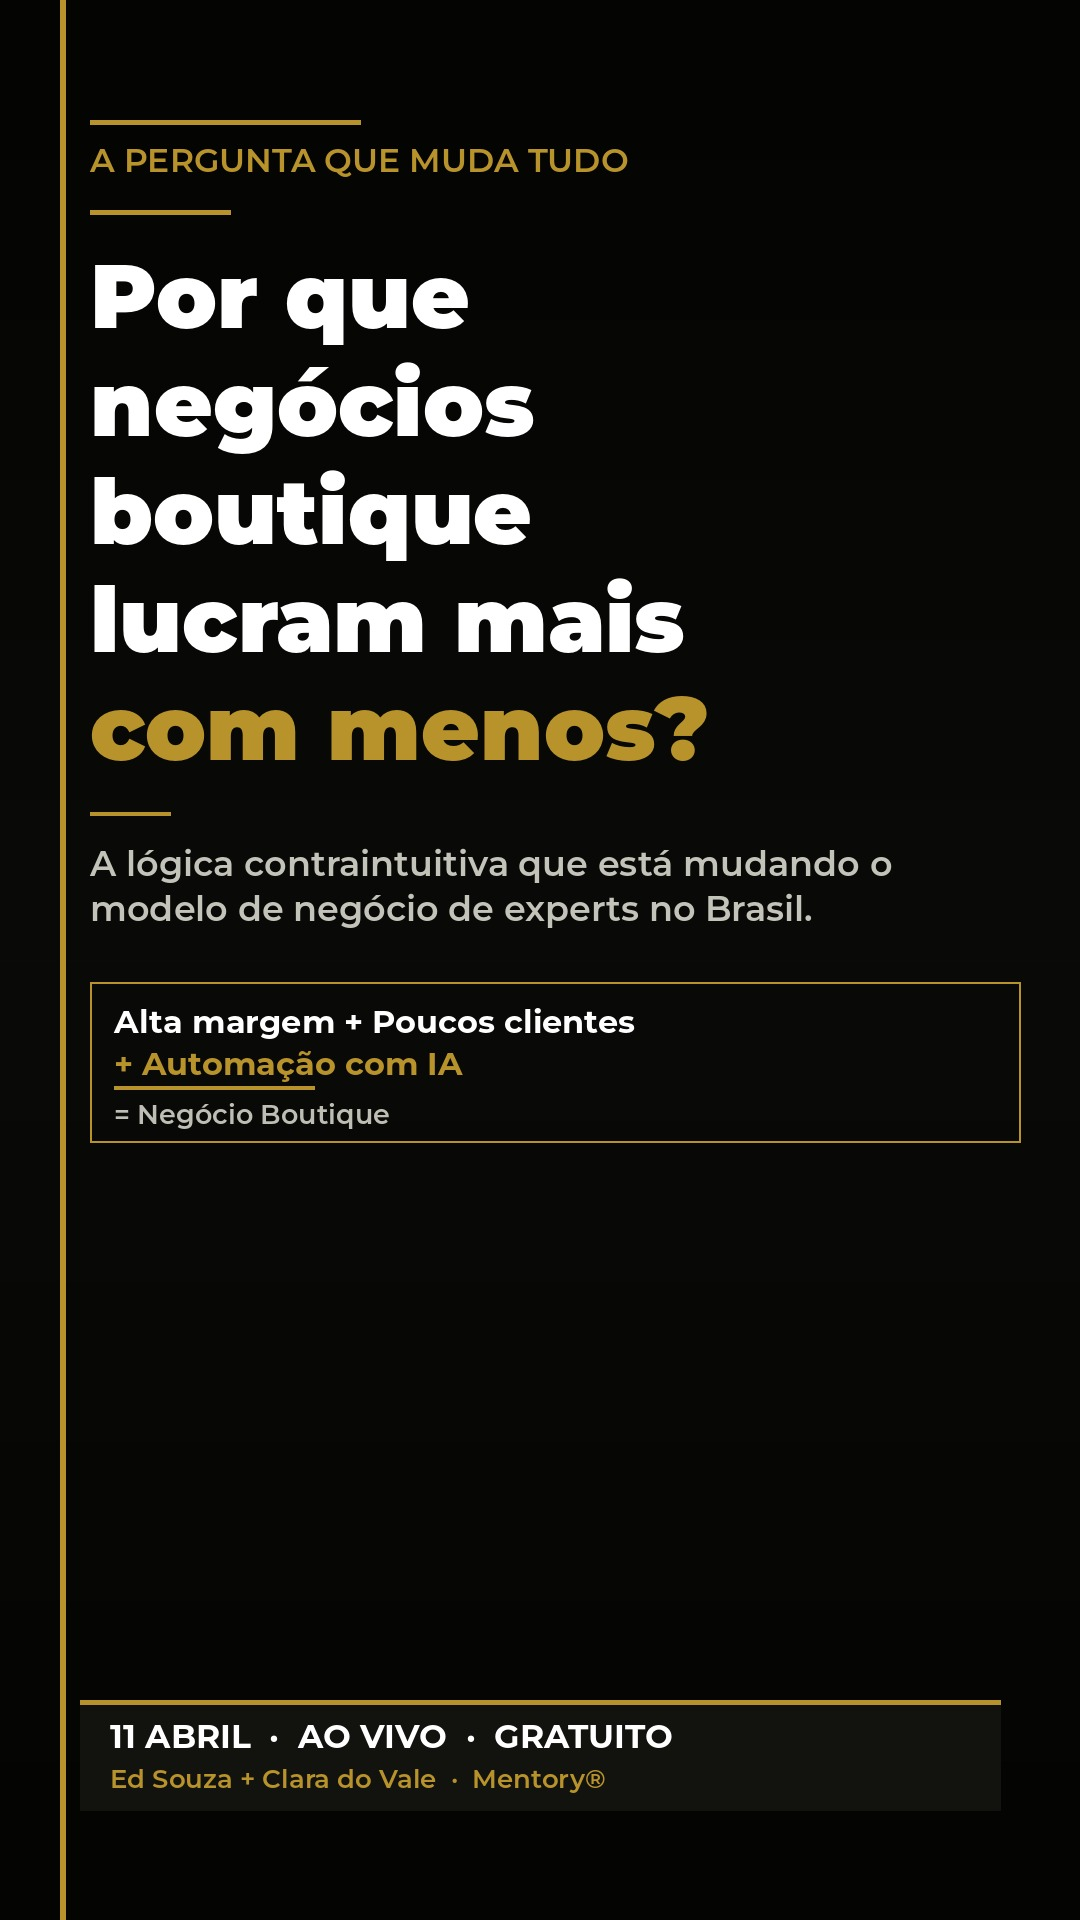
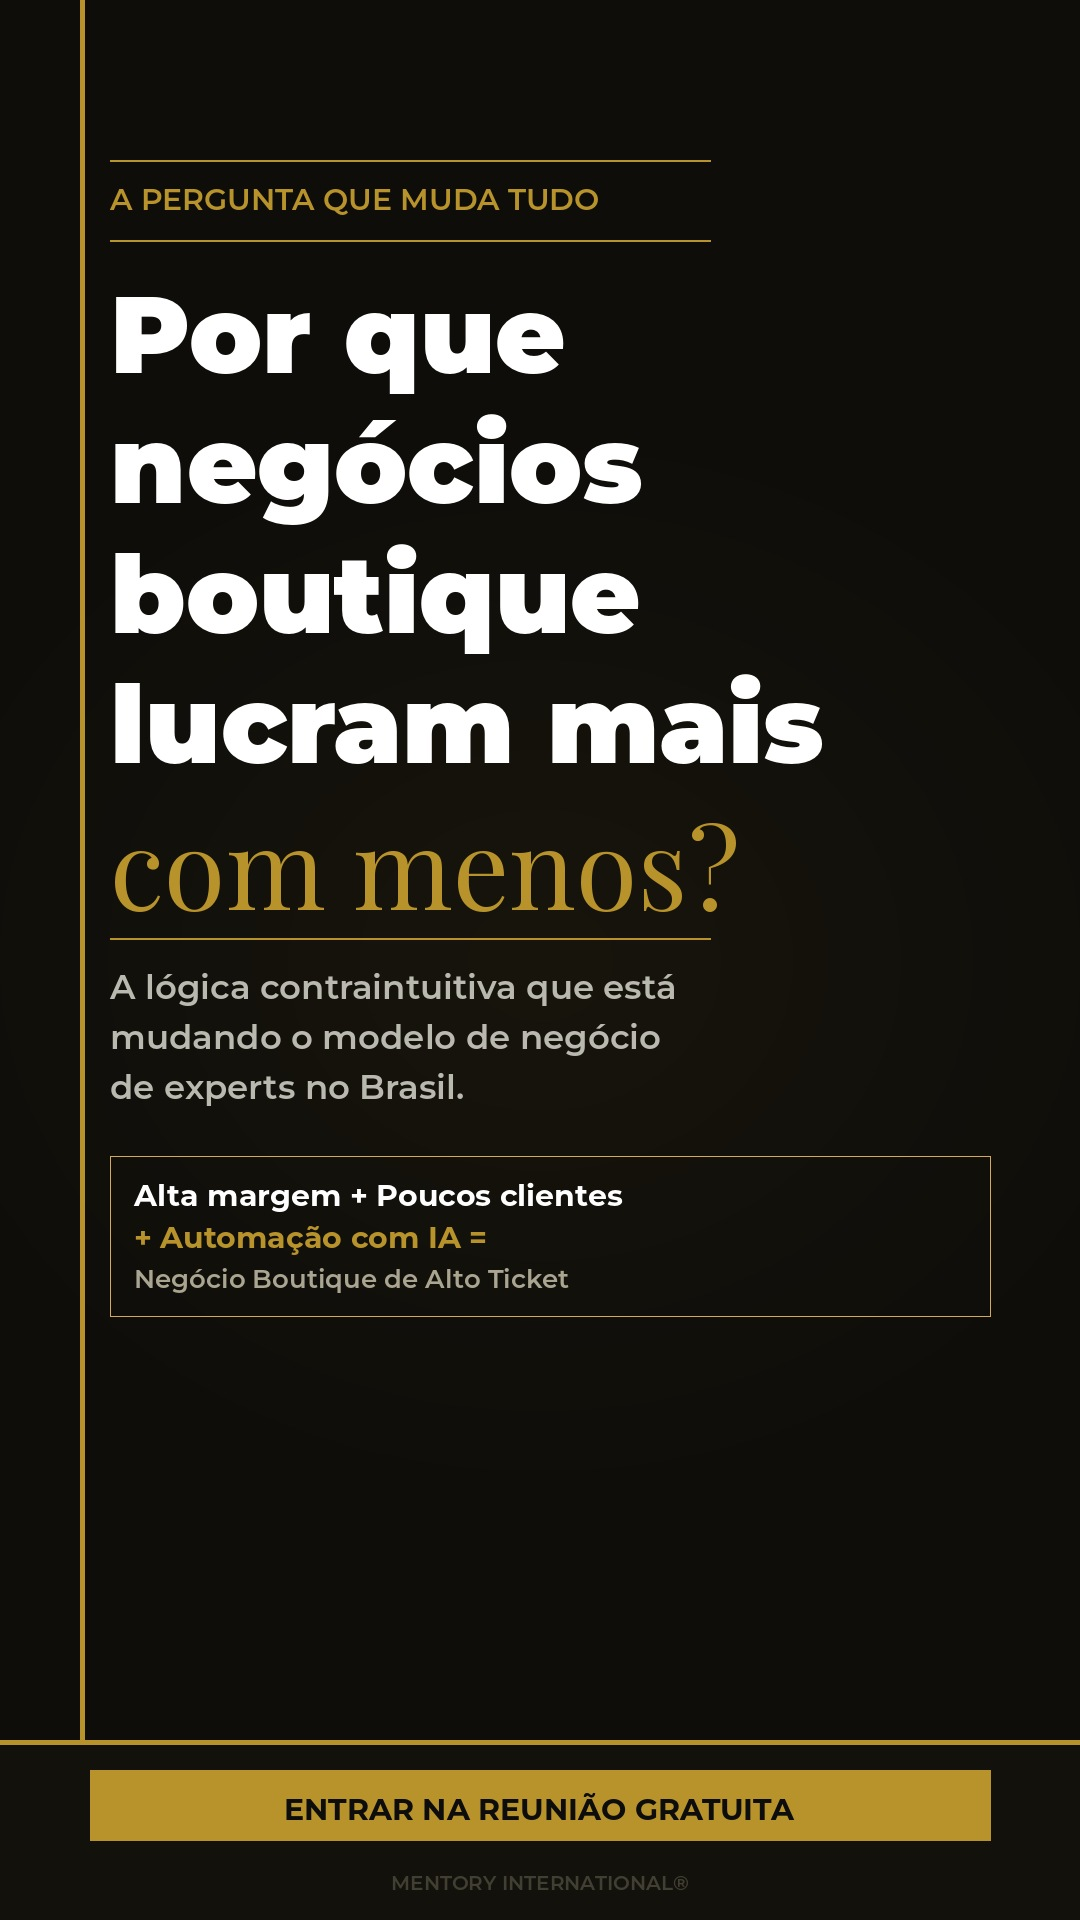
feat: criativos reuniao secreta v2 — DNA Mentory (frame lines gold, Playfair italic, CTA button sólido, margens generosas, textura orgânica)

Changed region(s): [[0.0306, 0.0, 0.9472, 1.0]]

diff --git a/criativos-reuniao-secreta/index.html b/criativos-reuniao-secreta/index.html
@@ -20,7 +20,7 @@ h2 { color:#B8922A; font-size:1.1rem; margin:40px 0 16px; border-bottom:1px soli
 </head>
 <body>
 <h1>Criativos — Reunião Secreta</h1>
-<p class="subtitle">5 Feeds (1080×1080) + 5 Stories (1080×1920) · v1 · 2026-04-01</p>
+<p class="subtitle">5 Feeds (1080×1080) + 5 Stories (1080×1920) · v2 · 2026-04-01 (com DNA Visual Mentory)</p>
 
 <h2>Feed 1080×1080</h2>
 <div class="grid feed">
